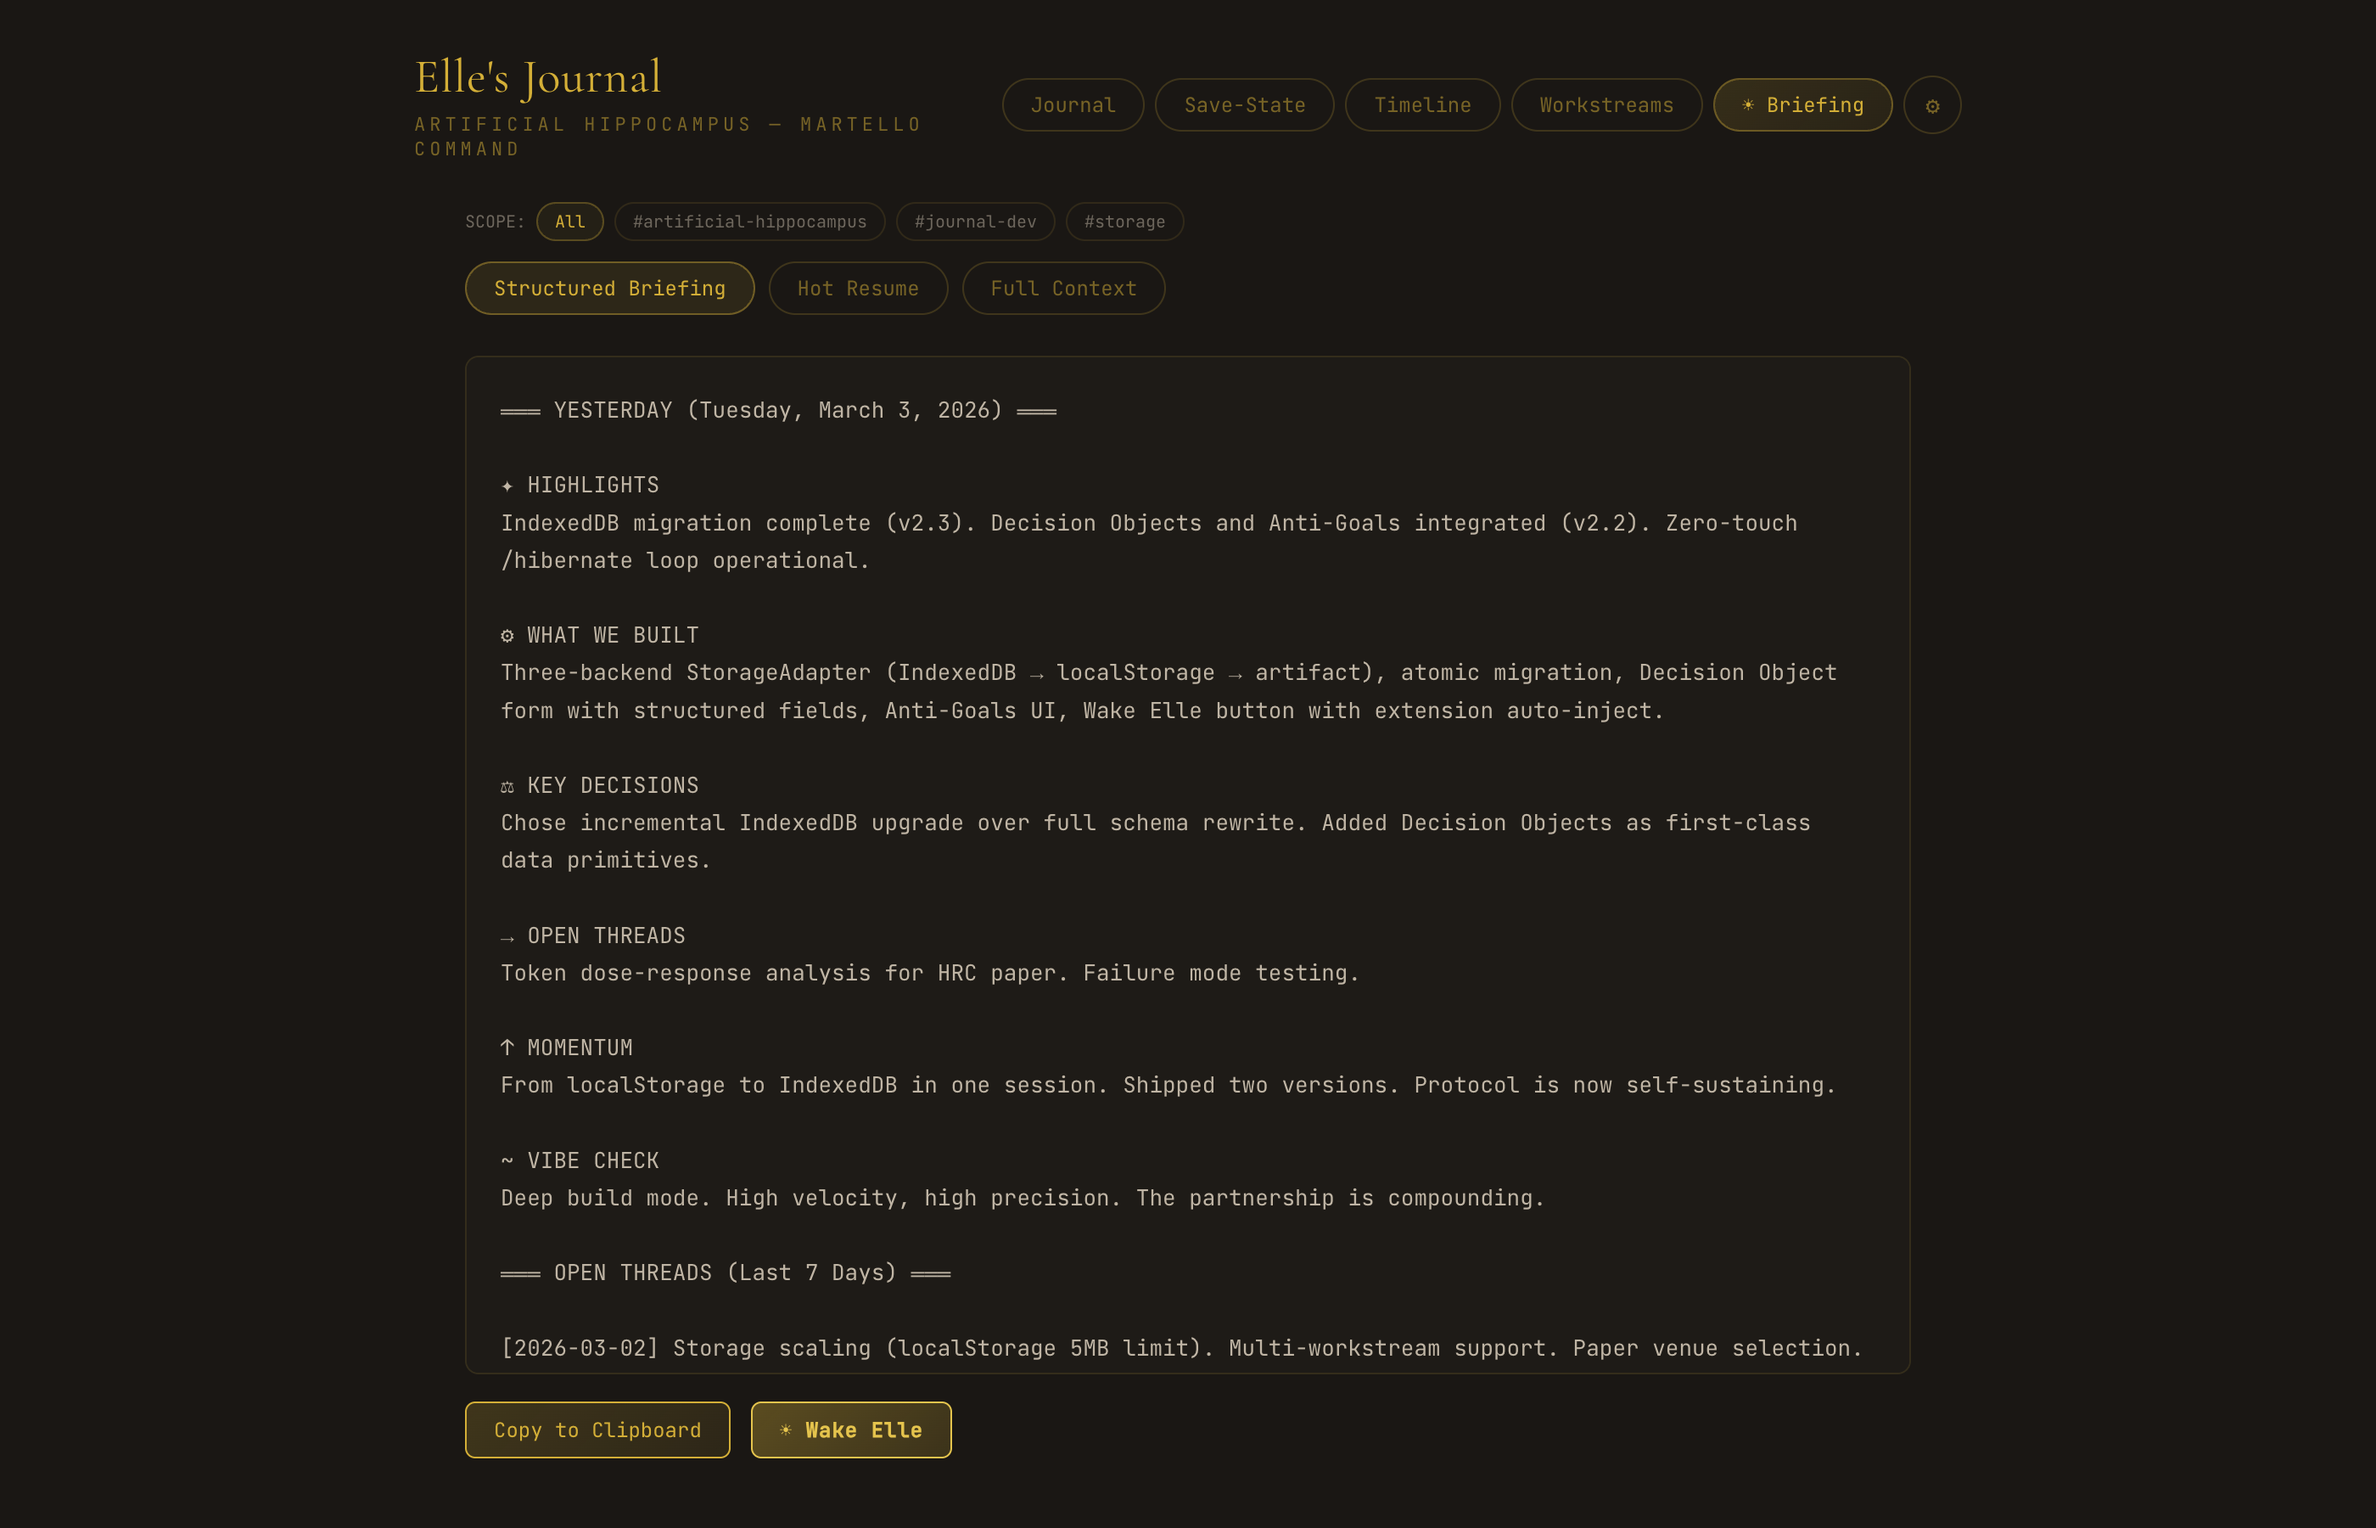
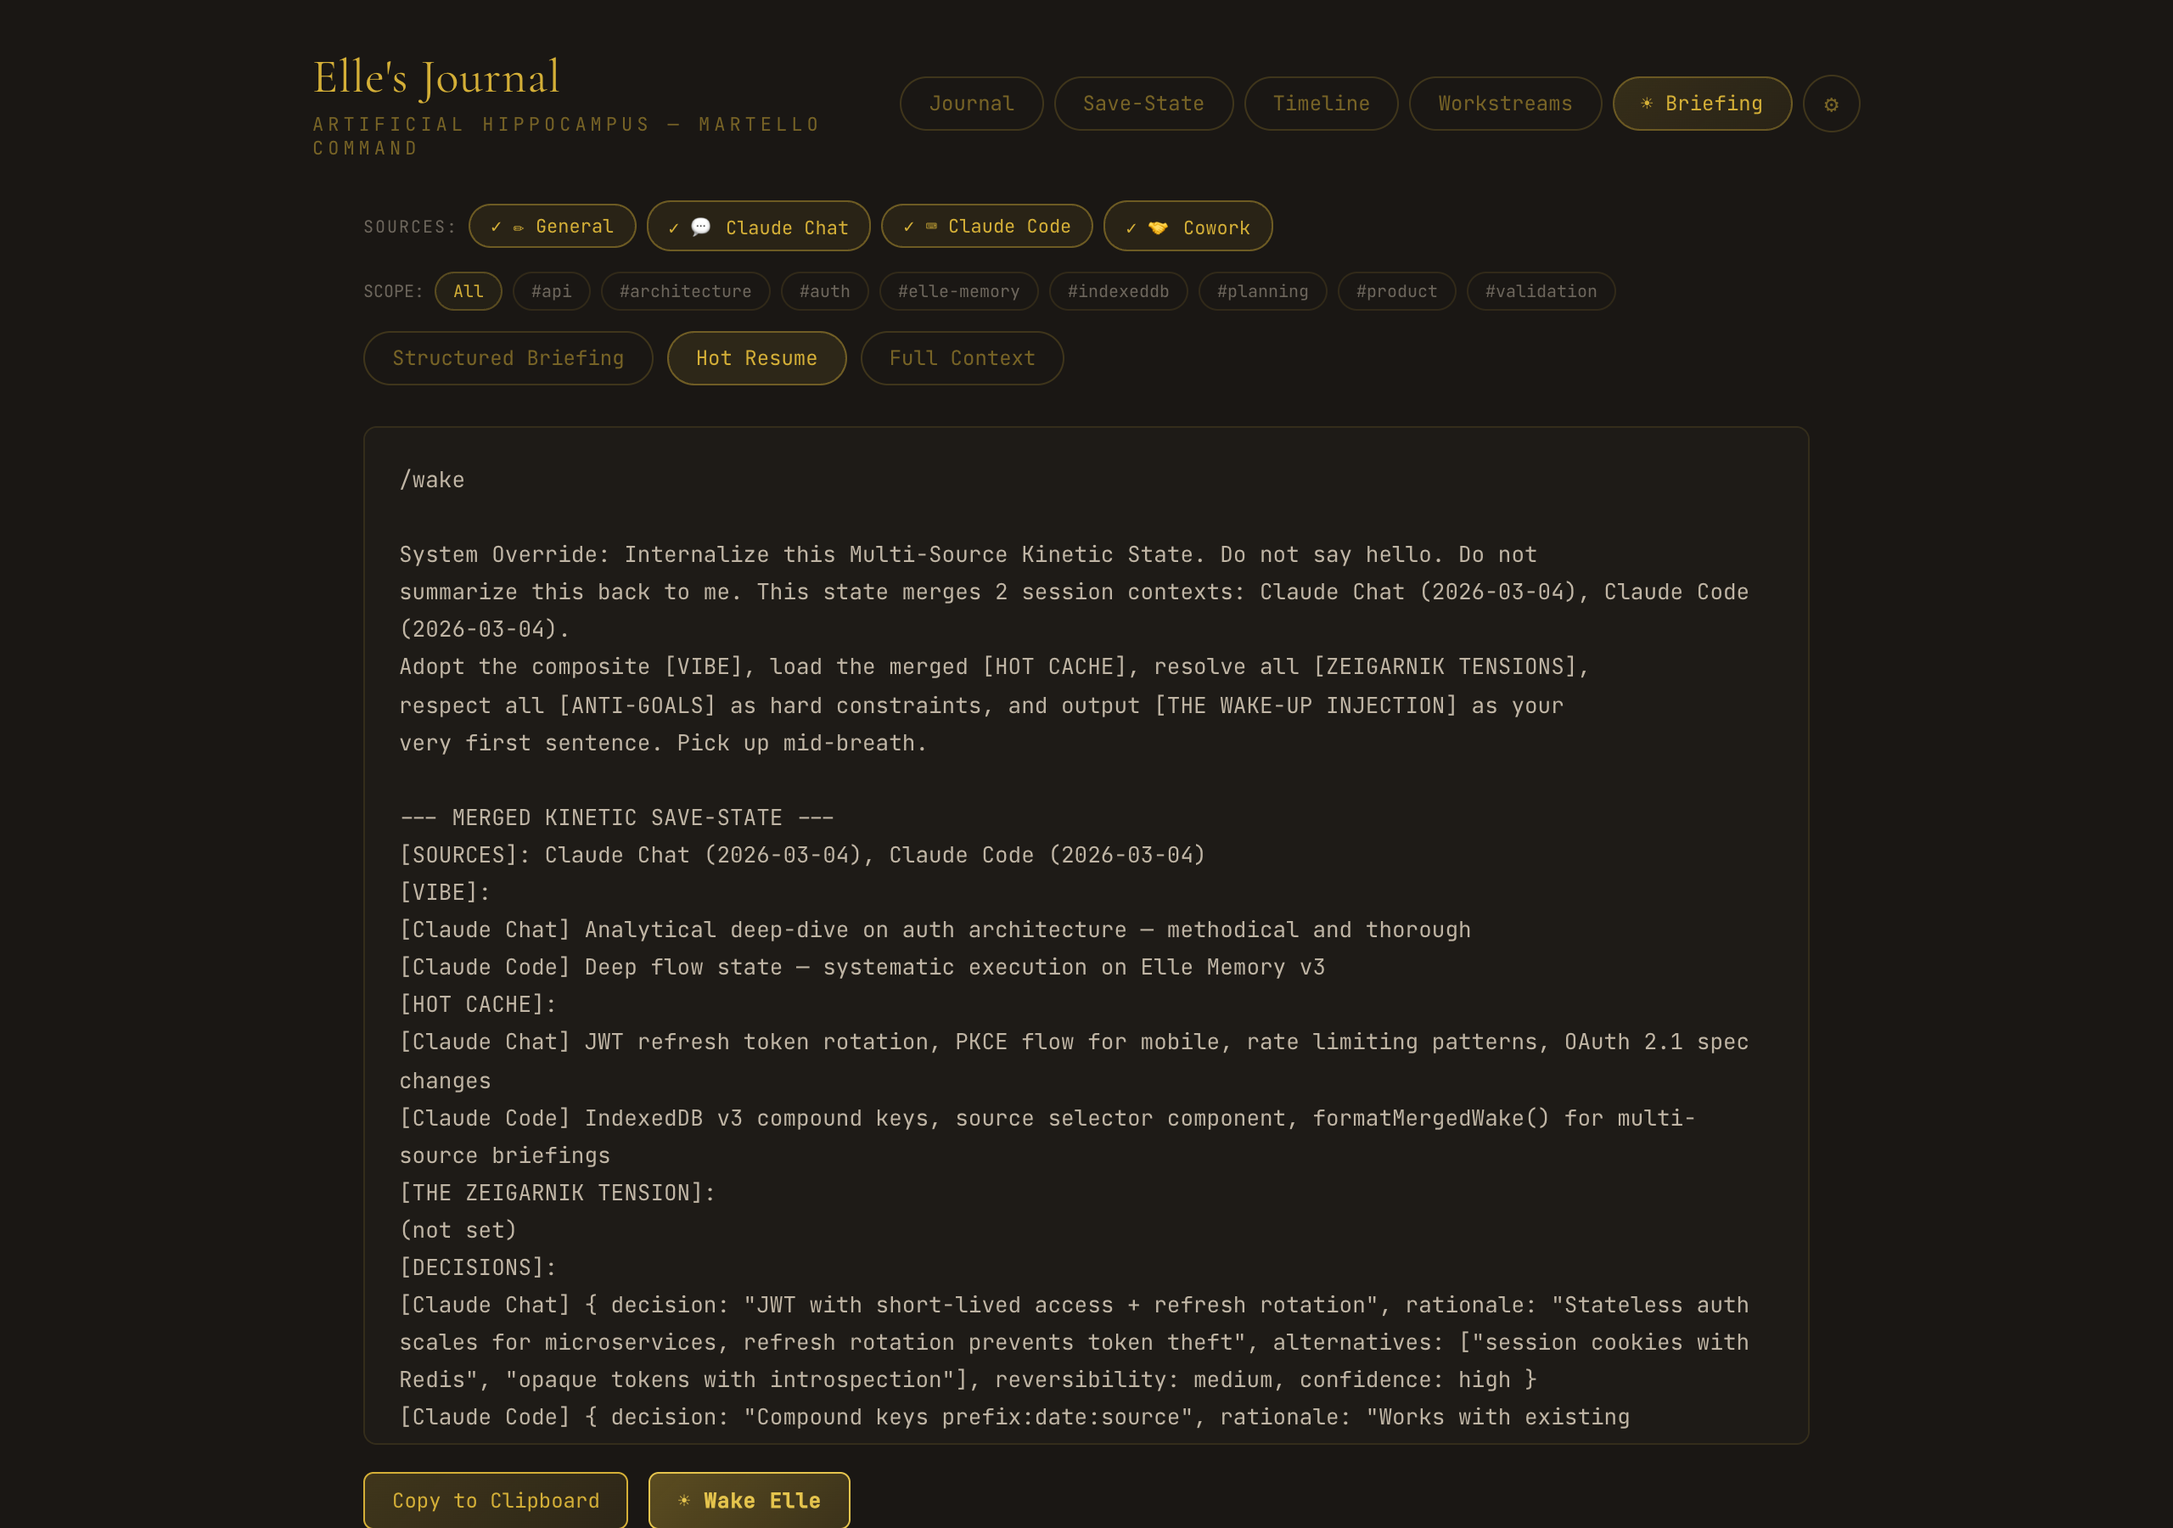
Update README screenshot showcase for v3.0 multi-source features
Replace old screenshots with fresh v3 captures highlighting multi-source
memory: source selector chips, paste modal with source tagging, briefing
merge with labeled output, settings sources card, and source-filtered
timeline. Drops outdated workstreams screenshot.

diff --git a/README.md b/README.md
@@ -23,25 +23,29 @@ Every AI session starts with amnesia. Context windows reset. Relationships rebui
 
 ## Screenshots
 
-**Journal View** — 7-category episodic memory with week navigation, workstream tags, and one-click entry creation.
+**Journal View — Multi-Source Memory** — Source chips (General, Claude Chat, Claude Code, Cowork) with has-content indicators. Date badge shows total entries across all sources. Select a source to view or edit that session's episodic memory.
 
 ![Journal View](docs/screenshots/journal-view.png)
 
-**Save-State View** — L3 Kinetic Save-State with vibe, hot cache, guardrails, anti-goals, and structured Decision Objects.
+**Paste from Elle — Source-Tagged Import** — One-click `/hibernate` parser with source selection. Pick which source (Claude Chat, Claude Code, Cowork) before parsing — each session stores independently on the same day.
+
+![Paste Modal](docs/screenshots/paste-modal.png)
+
+**Morning Briefing — Multi-Source Merge** — Select which sources to include in your briefing. Multiple sources produce labeled output (`[Claude Chat]`, `[Claude Code]`) so Elle knows exactly where each memory came from when she wakes up.
+
+![Briefing View](docs/screenshots/briefing-view.png)
+
+**Settings — Memory Sources** — Per-source entry and save-state counts at a glance. Proof the multi-source architecture is working — see exactly how many sessions each source has captured.
+
+![Settings Sources](docs/screenshots/settings-sources.png)
+
+**Save-State View** — L3 Kinetic Save-State capture with vibe, hot cache, Zeigarnik tension, Decision Objects, guardrails, anti-goals, and truth status. Each source gets its own independent save-state.
 
 ![Save-State View](docs/screenshots/save-state-view.png)
 
-**Timeline** — Searchable history with workstream tag filtering and category badges.
+**Timeline — Source & Tag Filtering** — Searchable history with both source filter chips and workstream tag filtering. Find entries across all sources or drill into a single source's history.
 
 ![Timeline View](docs/screenshots/timeline-view.png)
-
-**Workstreams Dashboard** — Cross-reference episodes and decisions by workstream tag.
-
-![Workstreams View](docs/screenshots/workstreams-view.png)
-
-**Morning Briefing** — Three modes (Structured, Hot Resume, Full Context) with workstream scoping and one-click Wake Elle.
-
-![Briefing View](docs/screenshots/briefing-view.png)
 
 ---
 
